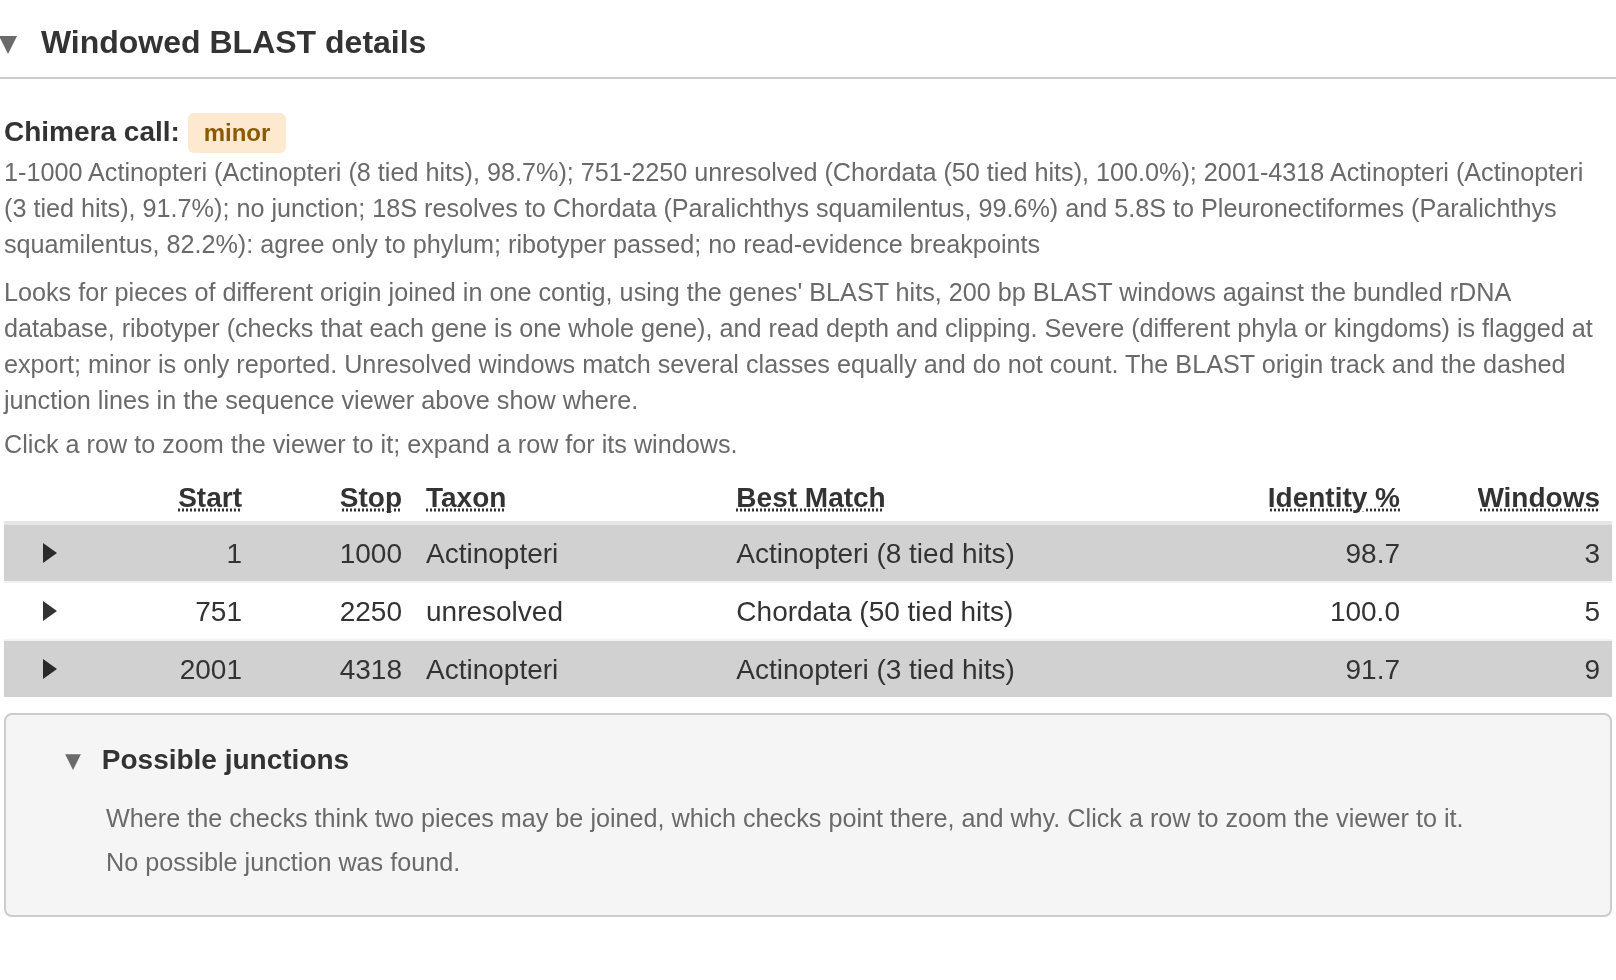
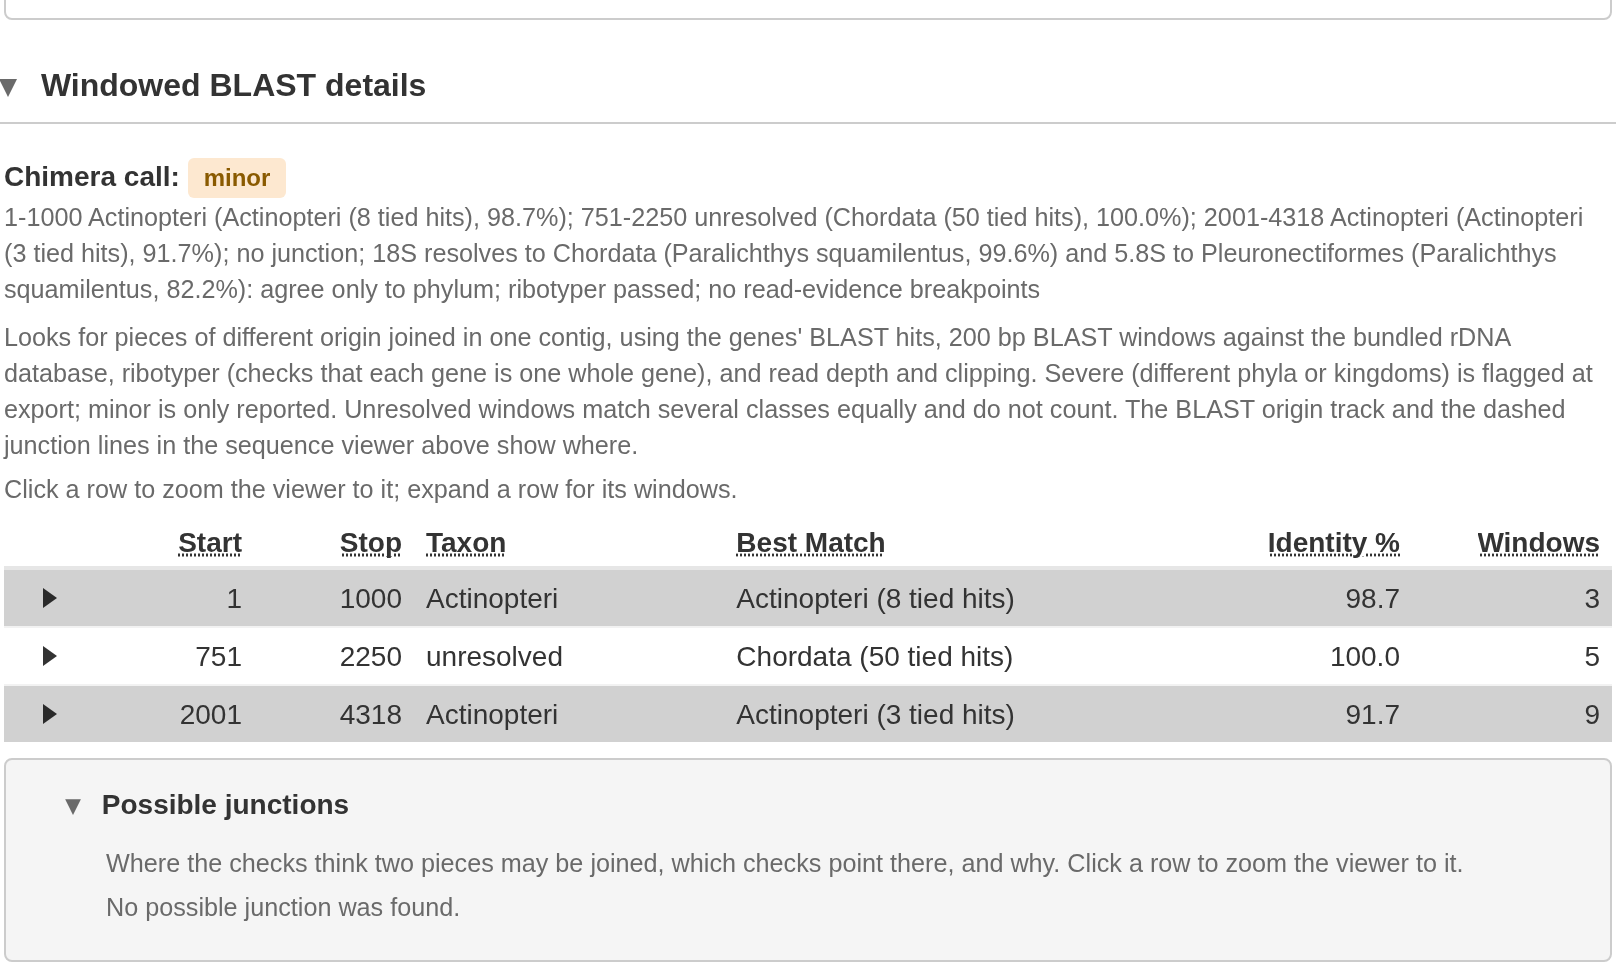
Viewer: BLAST windows track as staggered bars, origin band split at the overlap midpoint
Claude-Session: https://claude.ai/code/session_01WuBcZavay7LnqugVqKux6E

diff --git a/inst/app/www/seqviewer.js b/inst/app/www/seqviewer.js
@@ -41,7 +41,7 @@
   'use strict';
   var G = window.rpseq.geom;
   var MAX_PPB = 14, NT_LETTER = 8, NT_BAR = 3;
-  var RULER_H = 22, LANE_H = 22, NT_H = 20, GUTTER = 100, PAD = 4, COV_H = 60, CLIP_H = 36, IDENT_H = 36, ORIGIN_H = 18, GAP = 12;
+  var RULER_H = 22, LANE_H = 22, NT_H = 20, GUTTER = 100, PAD = 4, COV_H = 60, CLIP_H = 36, WIN_ROW = 18, ORIGIN_H = 18, GAP = 12;
   var BASE = { A: '#4faf45', C: '#e0a53f', G: '#e0555a', T: '#4a90d9', N: '#666666' };
   var viewers = {}, last = {};
 
@@ -78,7 +78,7 @@
     this.feats = (p.features || []).map(function (f) { return Object.assign({}, f); });
     this.nLanes = G.lanes(this.feats);
     this.depth = p.depth || null; this.clip = p.clip || null;
-    this.origin = p.origin || null; this.junctions = p.junctions || null; this.ident = p.ident || null;
+    this.origin = p.origin || null; this.junctions = p.junctions || null; this.windows = p.windows || null;
     if (p.cutoff) this.clipFlag = p.cutoff;
     this.depthMax = (this.depth || []).reduce(function (m, d) { return d !== null && d > m ? d : m; }, 1);
     this.selected = (p.selected === undefined || p.selected === null) ? null : p.selected;
@@ -136,7 +136,7 @@
   // ---- drawing ----
   Viewer.prototype.covOn = function () { return this.showCov && !!this.depth; };
   Viewer.prototype.clipOn = function () { return this.showClip && !!this.clip; };
-  Viewer.prototype.identOn = function () { return this.showIdent && !!this.ident; };
+  Viewer.prototype.winOn = function () { return this.showWin && !!this.windows; };
   Viewer.prototype.originOn = function () { return this.showOrigin && !!this.origin; };
   Viewer.prototype.ntOn = function () { return this.showNt && this.ppb >= NT_BAR; };
   Viewer.prototype.topH = function () {
@@ -148,7 +148,7 @@
     return this.topH() + this.nLanes * LANE_H + PAD + (this.ntOn() ? NT_H + PAD : 0) + GAP;
   };
   Viewer.prototype.height = function () {
-    return this.chimY() + (this.identOn() ? IDENT_H + GAP : 0) + (this.originOn() ? ORIGIN_H + GAP : 0);
+    return this.chimY() + (this.originOn() ? ORIGIN_H + GAP : 0) + (this.winOn() ? 2 * WIN_ROW + GAP : 0);
   };
   Viewer.prototype.draw = function () {
     if (!this.len || !this.canvas.offsetParent) return;
@@ -167,9 +167,8 @@
     this.drawLanes(c);
     if (this.ntOn()) this.drawNt(c, this.topH() + this.nLanes * LANE_H + PAD);
     y = this.chimY();
-    var self = this, segColor = function (pos) { var o = self.originAt(pos); return o ? o.color : '#9e9e9e'; };
-    if (this.identOn()) { this.drawTrack(c, W, y, IDENT_H, this.ident, 100, 'BLAST %id', false, { vmin: 70, colorAt: segColor, stroke: cssVar('--rp-ident-stroke', '#4d4d4d') }); y += IDENT_H + GAP; }
     if (this.originOn()) { this.drawOrigin(c, W, y); y += ORIGIN_H + GAP; }
+    if (this.winOn()) { this.drawWindows(c, W, y); y += 2 * WIN_ROW + GAP; }
     this.drawJunctions(c, H);
   };
   Viewer.prototype.drawRuler = function (c) {
@@ -228,8 +227,7 @@
   // blue; clipped-read fraction is grey with bars at or over the chimera
   // check's cutoff in Okabe-Ito orange. Runs of bars are filled as one shape,
   // since separate 1 px bars leave seams on scaled displays.
-  Viewer.prototype.drawTrack = function (c, W, y, h, vals, vmax, label, flag, opt) {
-    opt = opt || {}; var vmin = opt.vmin || 0;
+  Viewer.prototype.drawTrack = function (c, W, y, h, vals, vmax, label, flag) {
     var base = flag ? '#a0a0a0' : cssVar('--mp-primary', '#337ab7'), red = '#e69f00', muted = cssVar('--mp-text-muted', '#6a6a6a');
     var cut = this.clipFlag, cols = [];
     c.fillStyle = cssVar('--mp-surface-alt', '#f5f5f5'); c.fillRect(GUTTER, y, W - GUTTER, h);
@@ -242,26 +240,24 @@
         if (v === null || d > v) v = d;
         if (d === 0) gap = true;
       }
-      cols.push(v === null ? null : { v: v, gap: gap, c: opt.colorAt ? opt.colorAt(a) : base });
+      cols.push(v === null ? null : { v: v, gap: gap });
     }
     // columns holding any uncovered base get a full-height red wash, so gaps
     // survive the per-column max when zoomed out
-    var area = function (fill, keep, full, stroke) {
+    var area = function (fill, keep, full) {
       c.fillStyle = fill; c.beginPath();
       var open = false;
       for (var i = 0; i <= cols.length; i++) {
         var k = i < cols.length && cols[i] && keep(cols[i]);
-        var top = k ? (full ? y : y + h - Math.min(h, Math.max(0, cols[i].v - vmin) / (vmax - vmin) * h)) : 0;
+        var top = k ? (full ? y : y + h - Math.min(h, cols[i].v / vmax * h)) : 0;
         if (k && !open) { c.moveTo(GUTTER + i, y + h); open = true; }
         if (k) { c.lineTo(GUTTER + i, top); c.lineTo(GUTTER + i + 1, top); }
         if (!k && open) { c.lineTo(GUTTER + i, y + h); c.closePath(); open = false; }
       }
       c.fill();
-      if (stroke) { c.strokeStyle = stroke; c.lineWidth = 1; c.stroke(); }
     };
     if (!flag) area('rgba(217, 83, 79, 0.35)', function (o) { return o.gap; }, true);
-    var fills = cols.reduce(function (acc, o) { if (o && acc.indexOf(o.c) < 0) acc.push(o.c); return acc; }, []);
-    fills.forEach(function (f) { area(f, function (o) { return o.v > vmin && o.c === f; }, false, opt.stroke); });
+    area(base, function (o) { return o.v > 0; }, false);
     if (flag) area(red, function (o) { return o.v >= cut; }, false);
     c.strokeStyle = cssVar('--mp-border', '#ccc'); c.beginPath(); c.moveTo(GUTTER, y + h + 0.5); c.lineTo(W, y + h + 0.5); c.stroke();
     if (flag) { c.save(); c.strokeStyle = red; c.setLineDash([2, 3]); var fy = y + h - cut / vmax * h;
@@ -296,6 +292,30 @@
       c.beginPath(); c.moveTo(x, RULER_H); c.lineTo(x, H); c.stroke();
     }, this);
     c.restore();
+  };
+  // Every BLAST window as a bar: height is the best hit's identity from 70 to
+  // 100%, colour its class. Neighbours overlap by half, so odd and even windows
+  // alternate rows like brickwork; a no-hit window is an empty full-height box.
+  Viewer.prototype.drawWindows = function (c, W, y) {
+    var H = 2 * WIN_ROW, muted = cssVar('--mp-text-muted', '#6a6a6a');
+    c.fillStyle = cssVar('--mp-surface-alt', '#f5f5f5'); c.fillRect(GUTTER, y, W - GUTTER, H);
+    c.strokeStyle = cssVar('--rp-ident-stroke', '#4d4d4d'); c.lineWidth = 1;
+    this.windows.forEach(function (w, i) {
+      if (!this.inView(w)) return;
+      var x0 = Math.max(GUTTER, this.x(w.pos1)), x1 = Math.min(W, this.x(w.pos2 + 1));
+      if (x1 - x0 < 1) return;
+      var top = y + (i % 2) * WIN_ROW, h = w.pident === null || w.pident === undefined ? WIN_ROW - 2
+        : Math.max(2, (w.pident - 70) / 30 * (WIN_ROW - 2));
+      c.fillStyle = w.color; c.fillRect(x0, top + WIN_ROW - 1 - h, x1 - x0, h);
+      c.strokeRect(x0 + 0.5, top + WIN_ROW - 1 - h + 0.5, x1 - x0 - 1, h - 1);
+    }, this);
+    c.strokeStyle = cssVar('--mp-border', '#ccc'); c.beginPath(); c.moveTo(GUTTER, y + H + 0.5); c.lineTo(W, y + H + 0.5); c.stroke();
+    c.fillStyle = muted; c.textAlign = 'right';
+    c.textBaseline = 'top'; c.fillText('100%', GUTTER - 6, y);
+    c.textBaseline = 'bottom'; c.fillText('BLAST windows', GUTTER - 6, y + H, GUTTER - 10);
+  };
+  Viewer.prototype.windowsAt = function (pos) {
+    return (this.windows || []).filter(function (w) { return pos >= w.pos1 && pos <= w.pos2; });
   };
   Viewer.prototype.originAt = function (pos) {
     return (this.origin || []).find(function (s) { return pos >= s.pos1 && pos <= s.pos2; }) || null;
@@ -382,9 +402,11 @@
       if (self.covOn() && self.depth[b.pos - 1] !== null) t += ' | depth ' + self.depth[b.pos - 1];
       if (self.clipOn() && self.clip[b.pos - 1] !== null) t += ', clipped ' + (self.clip[b.pos - 1] * 100).toFixed(0) + '%';
       if (h) t += ' | ' + h.f.gene + ' ' + h.f.pos1.toLocaleString() + '-' + h.f.pos2.toLocaleString() + ' (' + h.f.dir + ')';
-      if (self.identOn() && self.ident[b.pos - 1] !== null) t += ' | BLAST id ' + self.ident[b.pos - 1].toFixed(1) + '%';
       var o = self.originOn() && self.originAt(b.pos);
       if (o) t += ' | ' + originText(o);
+      if (self.winOn()) self.windowsAt(b.pos).forEach(function (w) {
+        t += ' | window ' + w.pos1.toLocaleString() + '-' + w.pos2.toLocaleString() + ': ' + originText(w);
+      });
       var j = (self.junctions || []).find(function (q) { return Math.abs(self.x(q.pos) - px) <= 6; });
       if (j) t += ' | junction ' + j.pos.toLocaleString() + (j.checks ? ' (' + j.checks + ')' : '');
       self.tip.textContent = t; self.tip.hidden = false;
@@ -405,7 +427,7 @@
         }
       });
     });
-    [['show_nt', 'showNt'], ['show_cov', 'showCov'], ['show_clip', 'showClip'], ['show_ident', 'showIdent'],
+    [['show_nt', 'showNt'], ['show_cov', 'showCov'], ['show_clip', 'showClip'], ['show_win', 'showWin'],
      ['show_origin', 'showOrigin']].forEach(function (pair) {
       var box = document.getElementById(prefix + '-' + pair[0]);
       if (box) { self[pair[1]] = box.checked; box.addEventListener('change', function () { self[pair[1]] = box.checked; self.draw(); }); }
@@ -449,7 +471,7 @@
   window.rpseq.state = function (id) {
     var v = viewers[id]; if (!v) return null;
     return { len: v.len, viewStart: v.viewStart, ppb: v.ppb, selected: v.selected, height: v.height(), nLanes: v.nLanes,
-             origin: (v.origin || []).length, junctions: (v.junctions || []).length,
+             origin: (v.origin || []).length, windows: (v.windows || []).length, junctions: (v.junctions || []).length,
              features: v.feats.map(function (f) { return { row: f.row, gene: f.gene, pos1: f.pos1, pos2: f.pos2, lane: f.lane }; }) };
   };
   window.rpseq.fasta = function (id) { var v = get(id); return v ? v.visibleFasta() : null; };

diff --git a/NEWS.md b/NEWS.md
@@ -48,10 +48,12 @@
 ## Chimera check in the sequence viewer
 
 * The chimera evidence now lives in the sequence viewer of the Assemble and
-  Annotation Review windows: a **BLAST origin** track colours each stretch by the
+  Annotation Review windows: a **BLAST origin** band colours each stretch by the
   class its BLAST windows match (grey is the sample's own lineage), a **BLAST
-  identity** track shows the hit identity, and dashed lines mark possible
-  junctions. Hover for the match. The static chimera plot is gone.
+  windows** track draws every window as a bar in the same colour with its
+  identity as the height, staggered on two rows because neighbours overlap, and
+  dashed lines mark possible junctions. Hover for the match. The static chimera
+  plot is gone.
 * The Windowed BLAST details panel shows the reason under the call instead of on hover,
   says "not run" after a trim, and lists windows under their segment. Clicking
   a segment, window, or junction row zooms the viewer to it. On the Assemble
